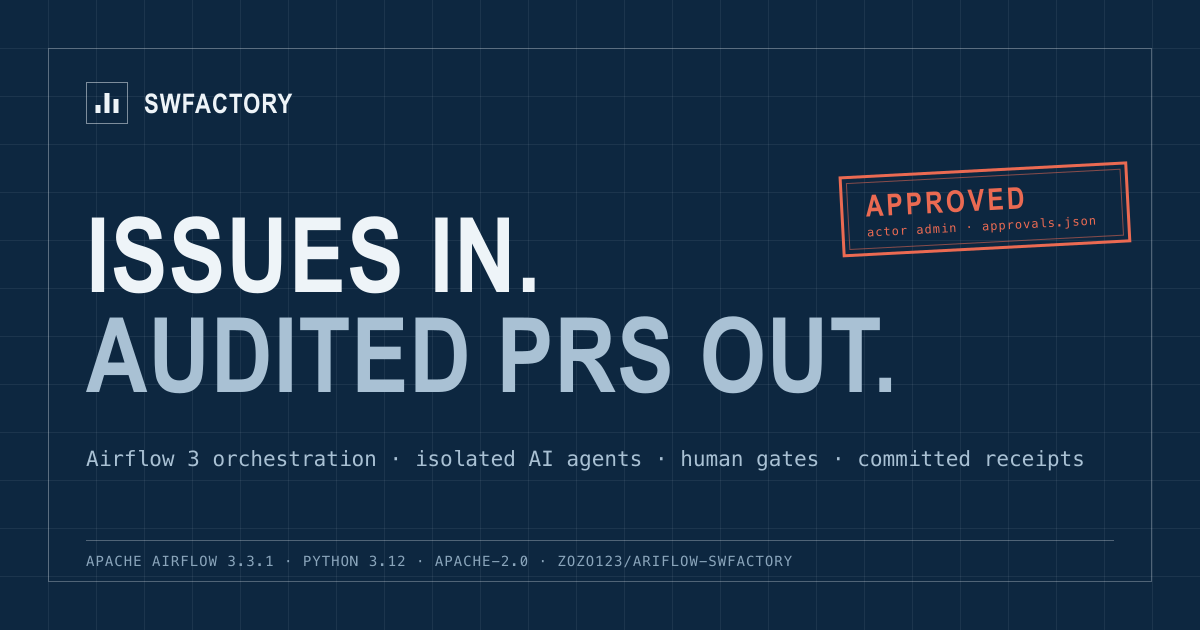
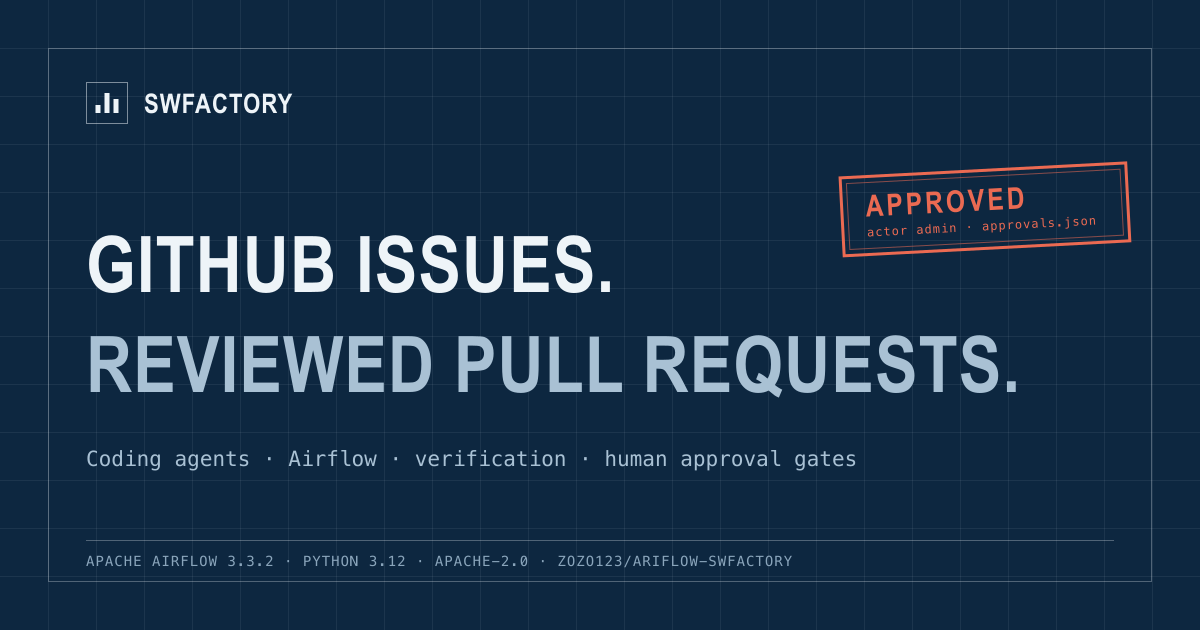
Unify SWFactory naming and lead with the runnable workflow

Changed region(s): [[0.0617, 0.3317, 0.8633, 0.6333], [0.3392, 0.6937, 0.8942, 0.754], [0.0617, 0.6937, 0.3083, 0.754]]

diff --git a/site/index.html b/site/index.html
@@ -5,36 +5,36 @@
     <meta name="viewport" content="width=device-width, initial-scale=1" />
     <meta
       name="description"
-      content="A software atelier for commissioned work: agents investigate and refine in bounded cells, Airflow governs the lifecycle, and evidence supports human release decisions."
+      content="SWFactory turns GitHub issues into reviewed pull requests with coding agents, Airflow scheduling, verification, and human approval gates. Alpha software."
     />
     <meta name="theme-color" media="(prefers-color-scheme: light)" content="#ffffff" />
     <meta name="theme-color" media="(prefers-color-scheme: dark)" content="#0f1114" />
     <meta property="og:type" content="website" />
-    <meta property="og:title" content="Software Atelier | swfactory" />
+    <meta property="og:title" content="SWFactory | GitHub issues to reviewed pull requests" />
     <meta
       property="og:description"
-      content="Explore and refine commissioned software work in bounded agent cells. Airflow governs lifecycle; scoped evidence and human authority govern release."
+      content="Plan, implement, test, and review a GitHub issue. Airflow schedules the work; the trusted backend publishes the pull request and its evidence."
     />
     <meta property="og:url" content="https://zozo123.github.io/ariflow-swfactory/" />
     <meta property="og:image" content="https://zozo123.github.io/ariflow-swfactory/social-card.png" />
-    <meta property="og:image:alt" content="Software Atelier: explore freely, release with evidence" />
+    <meta property="og:image:alt" content="SWFactory: GitHub issues to reviewed pull requests" />
     <meta name="twitter:card" content="summary_large_image" />
     <link rel="canonical" href="https://zozo123.github.io/ariflow-swfactory/" />
     <link rel="icon" href="favicon.svg" type="image/svg+xml" />
     <link rel="manifest" href="site.webmanifest" />
     <link rel="stylesheet" href="styles.css" />
-    <title>Software Atelier | swfactory</title>
+    <title>SWFactory | GitHub issues to reviewed pull requests</title>
   </head>
   <body>
     <a class="skip-link" href="#main-content">Skip to content</a>
 
     <header class="site-header">
       <div class="shell nav">
-        <a class="brand" href="#top">swfactory</a>
+        <a class="brand" href="#top">SWFactory</a>
         <nav aria-label="Primary navigation">
           <a href="#algorithm">Method</a>
           <a href="#evidence">Evidence</a>
-          <a href="#physics">Physics</a>
+          <a href="#physics">Authority</a>
           <a href="#factory-demo">Walkthrough</a>
           <a href="#sandboxes">Sandboxes</a>
           <a href="#quickstart">Run it</a>
@@ -46,11 +46,12 @@
 
     <main id="main-content" class="shell">
       <section id="top" class="hero">
-        <p class="label">An Airflow-governed software atelier</p>
-        <h1>Explore freely. Release with evidence.</h1>
+        <p class="label">SWFactory · Alpha</p>
+        <h1>From GitHub issue to reviewed pull request.</h1>
         <p class="lede">
-          Bring a commissioned change. Agents investigate and refine it in bounded work cells.
-          Airflow governs the lifecycle; scoped evidence and human decisions govern release.
+          Coding agents plan, implement, test, and review a change. Airflow schedules the work;
+          the trusted backend publishes a pull request with the evidence attached. Human-approved
+          lines wait at review gates; policy-driven autonomous operation remains experimental.
         </p>
         <div class="actions">
           <a class="primary" href="#quickstart">Run the local demo</a>
@@ -58,11 +59,21 @@
         </div>
       </section>
 
+      <section id="quickstart">
+        <h2>Run it</h2>
+        <p>No model key is required for the scripted local demo.</p>
+        <pre><code>git clone https://github.com/zozo123/ariflow-swfactory.git
+cd ariflow-swfactory
+uv sync --locked
+uv run swfactory demo</code></pre>
+        <p>Inspect the local stage report and PR description. This fixture replay makes no model calls and opens no GitHub PR.</p>
+      </section>
+
       <section id="algorithm">
-        <h2>The atelier process</h2>
+        <h2>How a change moves</h2>
         <ol class="steps">
           <li>
-            <strong>1. Commission the work.</strong>
+            <strong>1. Submit a GitHub issue.</strong>
             <span>A GitHub issue selects a versioned blueprint and target.</span>
           </li>
           <li>
@@ -74,7 +85,7 @@
             <span>Airflow is the only lifecycle scheduler: retries, waits, approvals, and cancellation.</span>
           </li>
           <li>
-            <strong>4. Craft in disposable compute.</strong>
+            <strong>4. Run agents in disposable compute.</strong>
             <span>The agent gets a bounded job and sandbox. It does not get release authority.</span>
           </li>
           <li>
@@ -82,12 +93,12 @@
             <span>Tests and review produce scoped evidence; missing checks and unresolved limits stay visible.</span>
           </li>
           <li>
-            <strong>6. Steward release.</strong>
-            <span>The trusted control plane creates the PR. People retain final merge authority.</span>
+            <strong>6. Publish for review.</strong>
+            <span>The trusted control plane creates the PR. Human-approved lines leave the merge decision to an operator.</span>
           </li>
         </ol>
-        <p class="formula" aria-label="Atelier lifecycle">
-          commission -> cell -> airflow -> craft -> evidence -> stewarded release
+        <p class="formula" aria-label="SWFactory lifecycle">
+          issue -> cell -> Airflow -> agent work -> verification -> pull request
         </p>
         <div class="note">
           The default managed line uses one governed implementation path today. Parallel candidate
@@ -104,7 +115,7 @@
           the model. Tests, fuzzing, benchmarks, and observations answer different questions.
         </p>
         <p class="note">
-          The atelier records what is known, what remains fuzzy, and the next useful check.
+          SWFactory records the result, remaining uncertainty, and the next useful check.
           Formalizability is not a proof verdict, and evidence never grants release authority.
           <a href="https://github.com/zozo123/ariflow-swfactory/blob/main/docs/software-atelier.md">
             Read the verification and uncertainty method.
@@ -113,19 +124,18 @@
       </section>
 
       <section id="physics">
-        <h2>Matter, motion, and authority</h2>
+        <h2>Who can publish a change?</h2>
         <p>
-          Treat software delivery like a non-equilibrium system: create entropy while searching,
-          then destroy entropy before promotion. Durable Cells, accepted digests, evidence, and
-          publication state are <strong>matter</strong>. Agents, sandboxes, builds, task graphs,
-          and caches are <strong>motion</strong>.
+          Agents, sandboxes, builds, and caches may be replaced during a run. The control plane
+          retains the work identity, approved artifact digests, evidence, and publication state.
+          An agent or a cache hit cannot approve a gate or grant itself publication authority.
         </p>
-        <p class="formula" aria-label="Atelier invariant">
-          accelerate motion != mint authority
+        <p class="formula" aria-label="Authority boundary">
+          faster execution != permission to publish
         </p>
         <ul class="plain-list">
           <li><strong>Turborepo:</strong> content hashes can skip identical build work.</li>
-          <li><strong>swfactory:</strong> digest-bound gates decide which exact candidate may advance.</li>
+          <li><strong>SWFactory:</strong> digest-bound gates decide which exact candidate may advance.</li>
           <li><strong>Airflow:</strong> remains the only lifecycle scheduler.</li>
         </ul>
         <div class="note">
@@ -137,7 +147,7 @@
       </section>
 
       <section id="factory-demo">
-        <h2>One commission, end to end</h2>
+        <h2>One issue, end to end</h2>
         <p>
           The drawing follows a single issue from the operator console to a pull request a person
           merges: where Airflow maps the work into cells, which two stages stop and wait for a
@@ -162,7 +172,7 @@
       </section>
 
       <section id="invariants">
-        <h2>What stays non-liquid</h2>
+        <h2>Operational boundaries</h2>
         <ul class="plain-list">
           <li><strong>Scheduling:</strong> Apache Airflow only.</li>
           <li><strong>Identity:</strong> one durable Factory Cell per issue and target.</li>
@@ -224,16 +234,6 @@
         </p>
       </section>
 
-      <section id="quickstart">
-        <h2>Run it</h2>
-        <p>No model key is required for the scripted local demo.</p>
-        <pre><code>git clone https://github.com/zozo123/ariflow-swfactory.git
-cd ariflow-swfactory
-uv sync
-uv run swfactory demo</code></pre>
-        <p>Then inspect the generated branch, evidence, and pull-request path.</p>
-      </section>
-
       <section id="source">
         <h2>Go deeper in the repo</h2>
         <ul class="plain-list links">
@@ -247,7 +247,7 @@ uv run swfactory demo</code></pre>
     </main>
 
     <footer class="shell">
-      <span>swfactory</span>
+      <span>SWFactory</span>
       <span>Apache-2.0</span>
       <a href="https://github.com/zozo123/ariflow-swfactory">GitHub</a>
     </footer>

diff --git a/site/404.html b/site/404.html
@@ -8,12 +8,12 @@
     <meta name="theme-color" media="(prefers-color-scheme: dark)" content="#0f1114" />
     <link rel="icon" href="favicon.svg" type="image/svg+xml" />
     <link rel="stylesheet" href="styles.css" />
-    <title>Page not found | swfactory</title>
+    <title>Page not found | SWFactory</title>
   </head>
   <body>
     <header class="site-header">
       <div class="shell nav">
-        <a class="brand" href="./">swfactory</a>
+        <a class="brand" href="./">SWFactory</a>
         <nav aria-label="Primary navigation">
           <a href="./#algorithm">Algorithm</a>
           <a href="./#factory-demo">Walkthrough</a>

diff --git a/README.md b/README.md
@@ -1,6 +1,6 @@
-# Software Atelier
+# SWFactory
 
-**Creative exploration. Bounded execution. Evidence-bound release.**
+Turn GitHub issues into reviewed pull requests with coding agents, Airflow, and human approval gates.
 
 [![CI](https://github.com/zozo123/ariflow-swfactory/actions/workflows/ci.yml/badge.svg)](https://github.com/zozo123/ariflow-swfactory/actions/workflows/ci.yml)
 [![Python 3.12](https://img.shields.io/badge/Python-3.12-3776AB?logo=python&logoColor=white)](pyproject.toml)
@@ -8,20 +8,20 @@
 [![Alpha](https://img.shields.io/badge/status-alpha-orange)](#status-and-verification)
 [![Apache 2.0](https://img.shields.io/badge/license-Apache--2.0-D22128)](LICENSE)
 
-Bring a GitHub work order to an **atelier for software**. People and agents investigate and refine
-the commissioned change inside bounded work cells. Apache Airflow owns the managed lifecycle;
-Factory Cell identity and epoch fence managed effects; the trusted control plane publishes a
-reviewable pull request with retained evidence. Human-approved lines wait for an operator;
-the experimental autonomous line uses a checked-in policy to approve bounded changes and merge
-through the backend. Policy and authority changes remain human maintenance. See the
-[software atelier workflow](docs/software-atelier.md) for the method and its current runtime
-boundaries.
+SWFactory runs a change through planning, implementation, tests, and review, then publishes a pull
+request with the evidence attached. Apache Airflow schedules the work; agents run in bounded work
+cells, and the trusted backend owns publication. Human-approved lines wait for an operator.
+An **experimental** autonomous line can approve bounded changes and merge through the backend
+under a checked-in policy. Policy and authority changes remain human maintenance.
 
-[Quickstart](#quickstart) · [Flow, concepts, and finish line](docs/system-map.md) · [Software atelier](docs/software-atelier.md) · [Method](#method) ·
+This is an **alpha** implementation. Start with the local replay below; it makes no model calls
+and does not prove that a deployed model/sandbox integration works.
+
+[Quickstart](#quickstart) · [Flow, concepts, and finish line](docs/system-map.md) · [Design rationale](docs/software-atelier.md) · [Method](#method) ·
 [Future factory](docs/future-factory.md) · [Run a real issue](#run-a-real-issue) · [Operator guide](docs/swf.md) ·
 [Illustrated walkthrough](https://zozo123.github.io/ariflow-swfactory/#factory-demo) · [Agent skills](#agent-skills)
 
-![A commissioned software change moving through isolated work cells toward a reviewed release](site/factory-line.webp)
+![A GitHub issue moving through isolated work cells toward a reviewed pull request](site/factory-line.webp)
 
 ## Quickstart
 
@@ -78,30 +78,6 @@ Autonomy requires a deployed backend, Airflow, and configured model/sandbox acce
 replay does not prove that deployment works. Inspect policy refusals with
 `uv run swfactory state autonomy --json`; set `SWF_BACKEND_URL` and `SWF_BACKEND_TOKEN` to read
 the deployed backend, or use `--root` with its local state directory.
-
-## Method
-
-> **Create entropy where exploration benefits from it; destroy entropy before promotion.**
-
-The factory runs product work and its own development the same way: explore through independent
-lanes, compare them against shared contracts and evidence, then converge on one maintained
-implementation and one exact candidate. **Parallelism is cheap. Authority is singular.**
-
-| Motion: may change or disappear | Matter: must remain durable and authoritative |
-| --- | --- |
-| Workers, agent sessions, sandboxes, VMs, containers | Factory Cell identity, current epoch, work order, and lifecycle binding |
-| Speculative branches, experiments, temporary adapters | Approved contracts, mutation history, evidence, and publication state |
-| Intermediate implementations, work graphs, and caches | The accepted plan revision and the final repository state |
-
-A worker may spend compute; it cannot mint authority. A cache hit can save time; it cannot approve
-a gate, reconcile an ambiguous mutation, publish a PR, or promote a candidate.
-
-| Read next | For |
-| --- | --- |
-| [Liquid methodology](docs/liquid-methodology.md) | Ownership roles, concerns, recovery cases, evidence requirements, and promotion rules |
-| [Phase control](docs/phase-control.md) | The search-only gas/liquid/critical/crystal/glass/jammed vocabulary shared by Python and Rust |
-| [Future factory](docs/future-factory.md) | The north-star end state, its laws, and what to build next |
-| [Polyglot task graph](docs/polyglot-task-graph.md) | Turbo as an accelerator inside verification, not a second scheduler |
 
 ## Architecture and lifecycle
 
@@ -395,6 +371,30 @@ path-filtered, scheduled, or manually triggered, and real-agent jobs need config
 **A green badge does not mean every live path passed.** The
 [methodology's promotion rules](docs/liquid-methodology.md#ci-and-promotion) define the stronger
 acceptance standard and explain the remaining enforcement work.
+
+## Method
+
+> **Create entropy where exploration benefits from it; destroy entropy before promotion.**
+
+The factory runs product work and its own development the same way: explore through independent
+lanes, compare them against shared contracts and evidence, then converge on one maintained
+implementation and one exact candidate. **Parallelism is cheap. Authority is singular.**
+
+| Motion: may change or disappear | Matter: must remain durable and authoritative |
+| --- | --- |
+| Workers, agent sessions, sandboxes, VMs, containers | Factory Cell identity, current epoch, work order, and lifecycle binding |
+| Speculative branches, experiments, temporary adapters | Approved contracts, mutation history, evidence, and publication state |
+| Intermediate implementations, work graphs, and caches | The accepted plan revision and the final repository state |
+
+A worker may spend compute; it cannot mint authority. A cache hit can save time; it cannot approve
+a gate, reconcile an ambiguous mutation, publish a PR, or promote a candidate.
+
+| Read next | For |
+| --- | --- |
+| [Liquid methodology](docs/liquid-methodology.md) | Ownership roles, concerns, recovery cases, evidence requirements, and promotion rules |
+| [Phase control](docs/phase-control.md) | The search-only gas/liquid/critical/crystal/glass/jammed vocabulary shared by Python and Rust |
+| [Future factory](docs/future-factory.md) | The north-star end state, its laws, and what to build next |
+| [Polyglot task graph](docs/polyglot-task-graph.md) | Turbo as an accelerator inside verification, not a second scheduler |
 
 ## Documentation and contribution
 
